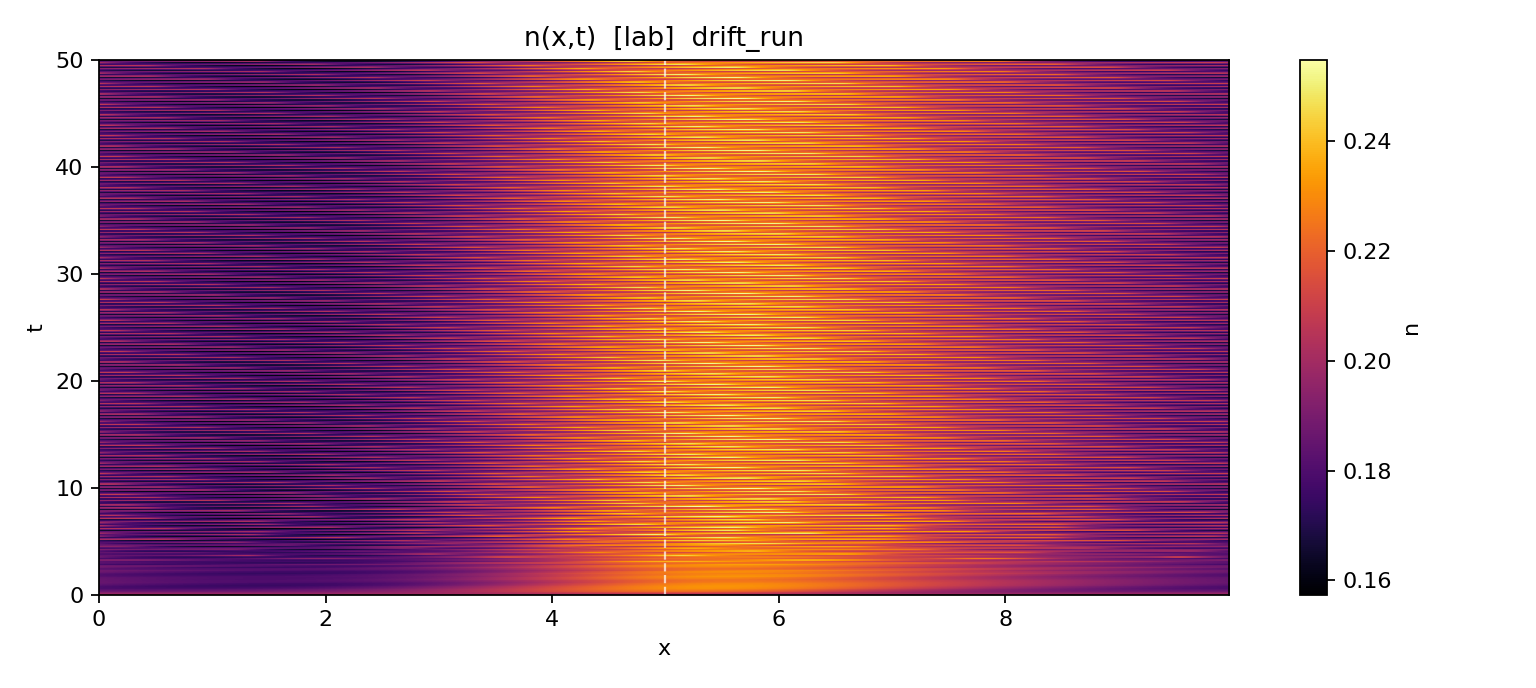
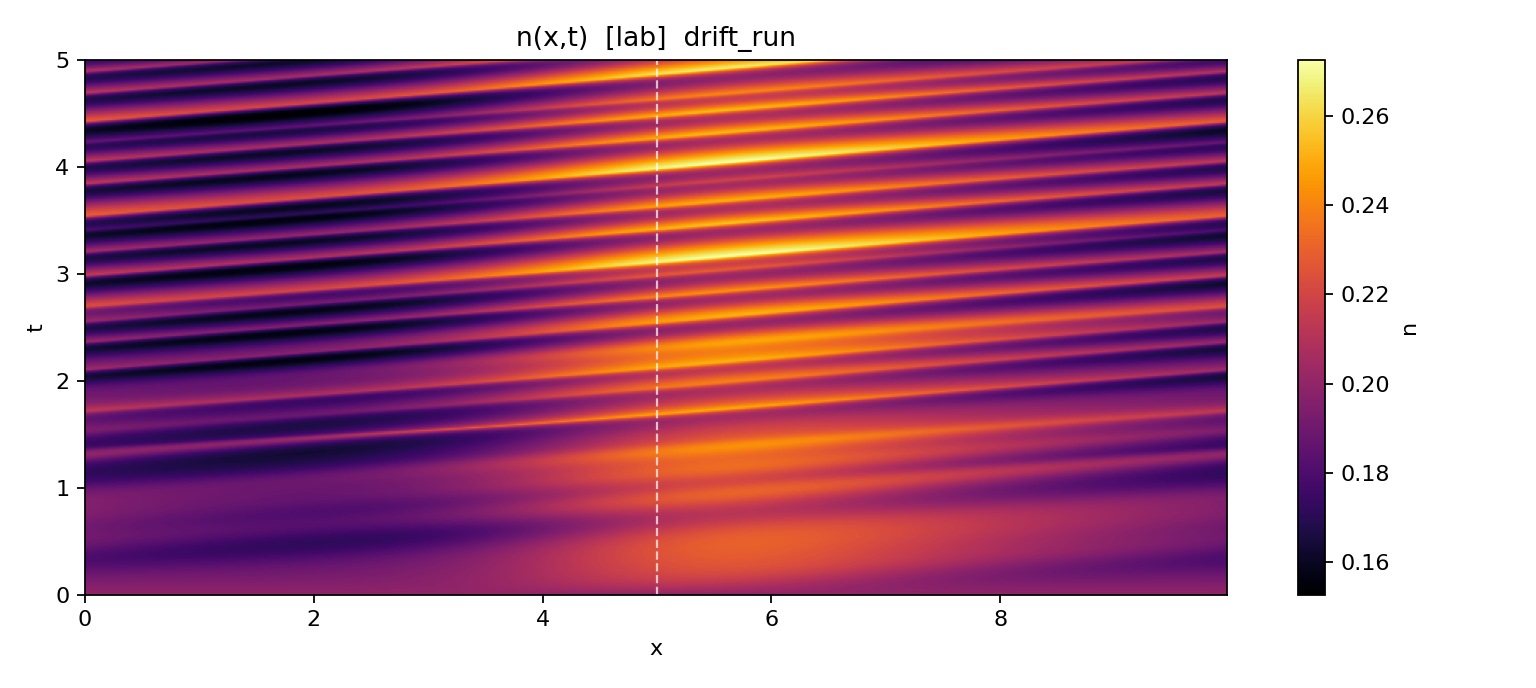
without nbar

diff --git a/mass injection/mass injection.py b/mass injection/mass injection.py
@@ -16,7 +16,7 @@ class P:
     include_poisson: bool = False
     eps: float = 20.0
 
-    u_d: float = 0.40
+    u_d: float = 14.00
     # u_d: float = .0
     maintain_drift: str = "field"
     Kp: float = 0.15
@@ -35,7 +35,7 @@ class P:
 
     L: float = 10.0
     Nx: int = 512
-    t_final: float = 50.0
+    t_final: float = 5.0
     n_save: int = 360
     # rtol: float = 5e-7
     # atol: float = 5e-9
@@ -98,10 +98,13 @@ def J_profile():
     d = periodic_delta(x, par.x0, par.L)
     return par.J0 * np.exp(-0.5*(d/par.sigma_J)**2)
 
-def gamma_from_J(Jx): return np.trapz(Jx, x)/par.L
+def gamma_from_J(Jx): 
+    # print(np.trapz(Jx, x)/par.L)
+    return np.trapz(Jx, x)/par.L
 
 def S_injection(n, nbar, Jx, gamma):
     if par.source_model == "as_given":
+        # print(f"nbar: {nbar}")
         return Jx * nbar - gamma * (n - nbar*0)
     elif par.source_model == "balanced":
         return Jx * nbar - gamma * n
